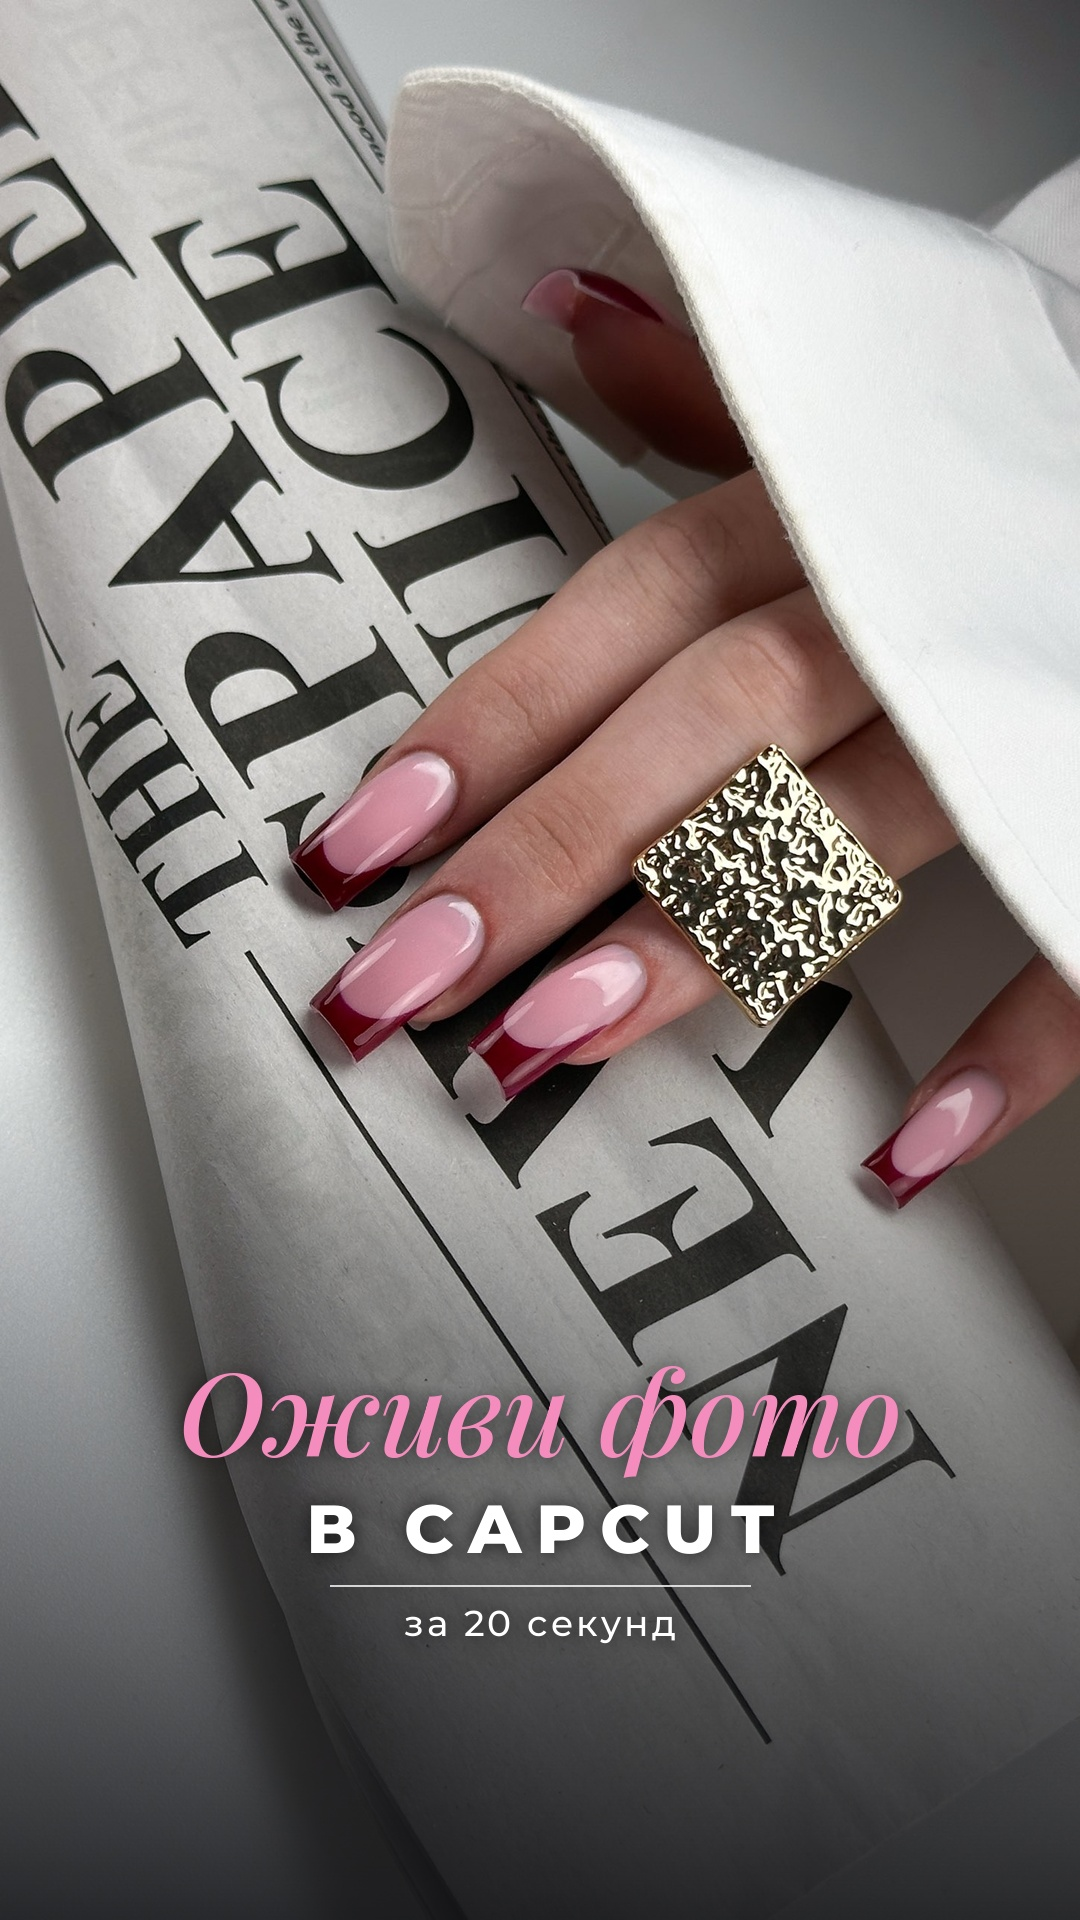
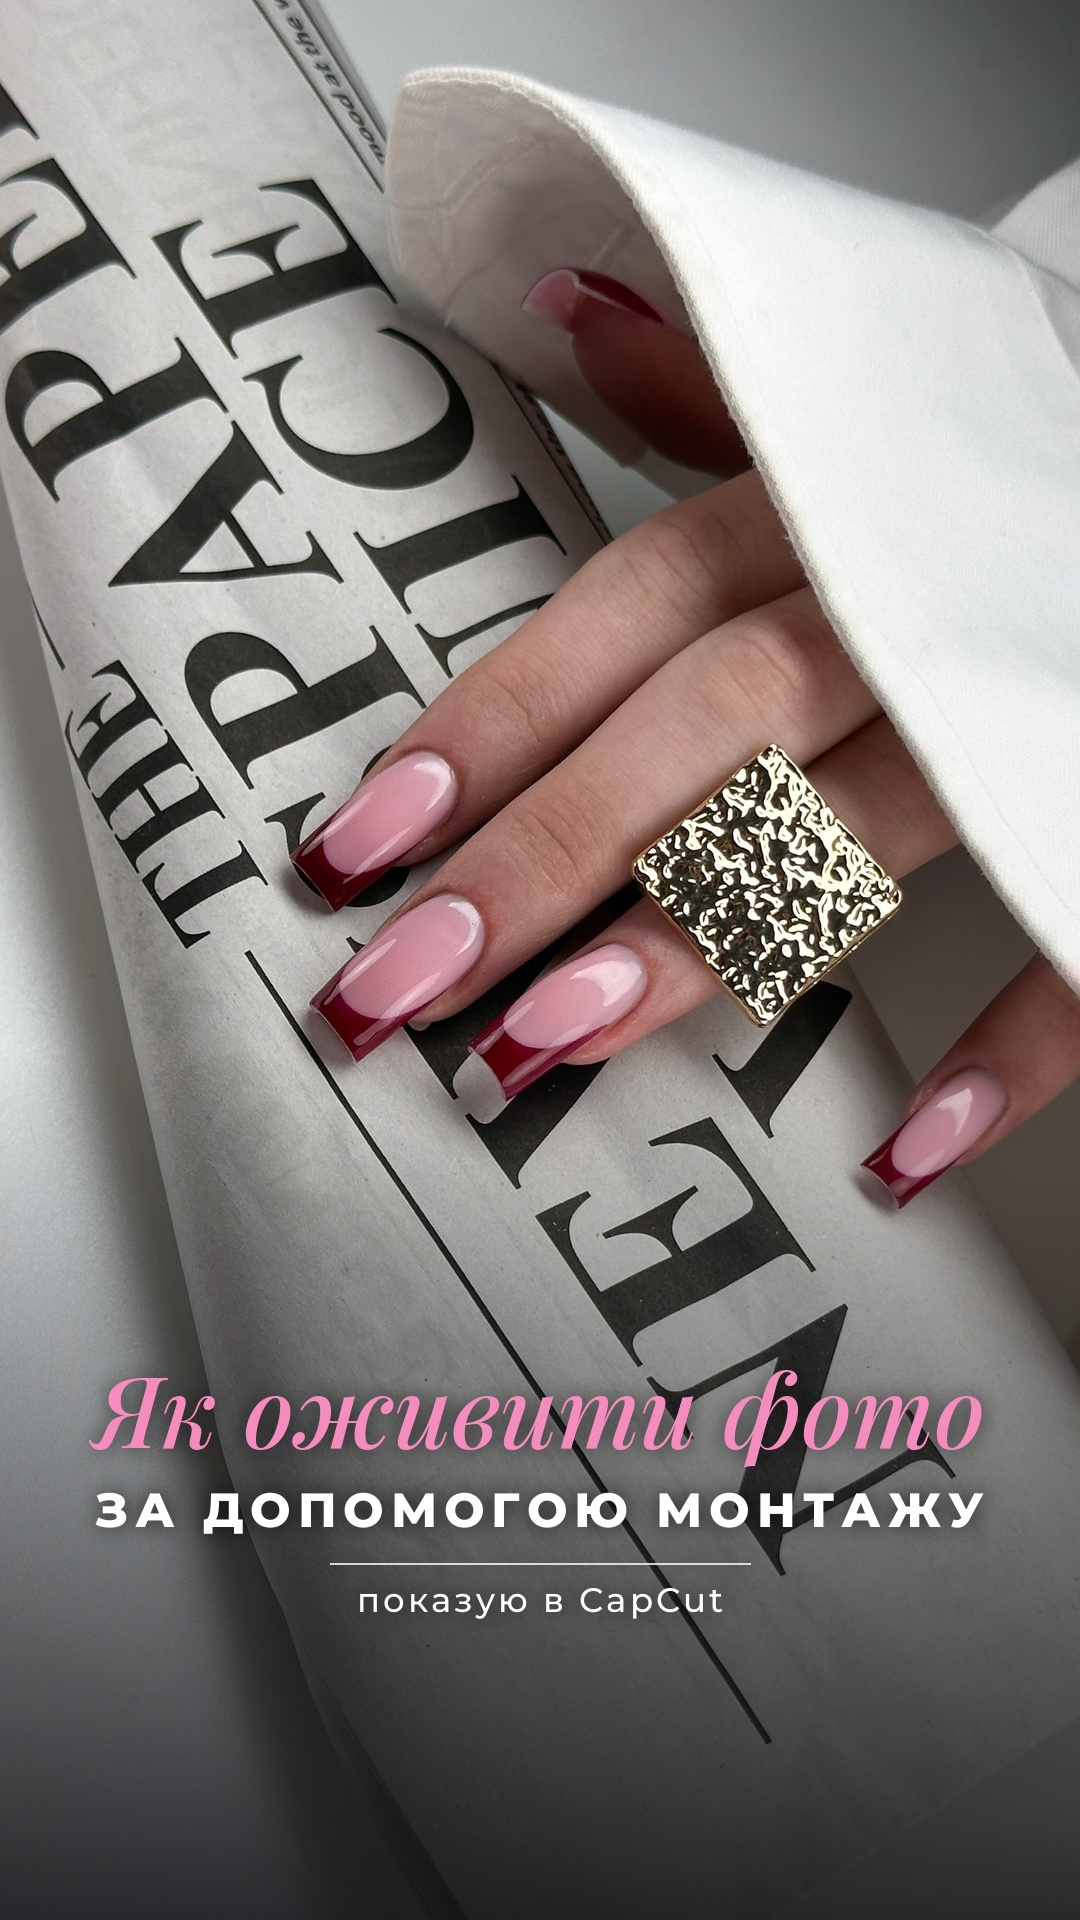
Обкладинка: «Як оживити фото за допомогою монтажу»
Claude-Session: https://claude.ai/code/session_0191xVL2hi5vHUvM1ix6pauC

Changed region(s): [[0.0917, 0.6875, 0.9167, 0.875]]

diff --git a/cover/build_oblozhka_ozhyvyty_foto.py b/cover/build_oblozhka_ozhyvyty_foto.py
@@ -10,10 +10,10 @@ L=Image.new('RGBA',(W2,H2),(0,0,0,0)); d=ImageDraw.Draw(L)
 def center(t,f,y,fill,sp=0):
     tw=sum(d.textlength(ch,font=f) for ch in t)+sp*(len(t)-1); x=(W2-tw)/2
     for ch in t: d.text((x,y),ch,font=f,fill=fill); x+=d.textlength(ch,font=f)+sp
-center('Оживи фото',P(116),1330,PINK)
-center('В CAPCUT',M(68,800),1487,WHITE,14)
-d.line(((W2-420)/2,1585,(W2+420)/2,1585),fill=(255,255,255,200),width=2)
-center('за 20 секунд',M(36,500),1601,WHITE,3)
+center('Як оживити фото',P(100),1340,PINK)
+center('ЗА ДОПОМОГОЮ МОНТАЖУ',M(48,800),1480,WHITE,7)
+d.line(((W2-420)/2,1563,(W2+420)/2,1563),fill=(255,255,255,200),width=2)
+center('показую в CapCut',M(34,500),1579,WHITE,3)
 sh=L.split()[3].filter(ImageFilter.GaussianBlur(10)).point(lambda v:int(v*0.7))
 c=Image.composite(Image.new('RGB',(W2,H2),(0,0,0)),c,sh); c.paste(L,(0,0),L)
 c.save(f'{R}/cover/oblozhka_ozhyvyty_foto.jpg',quality=95)
